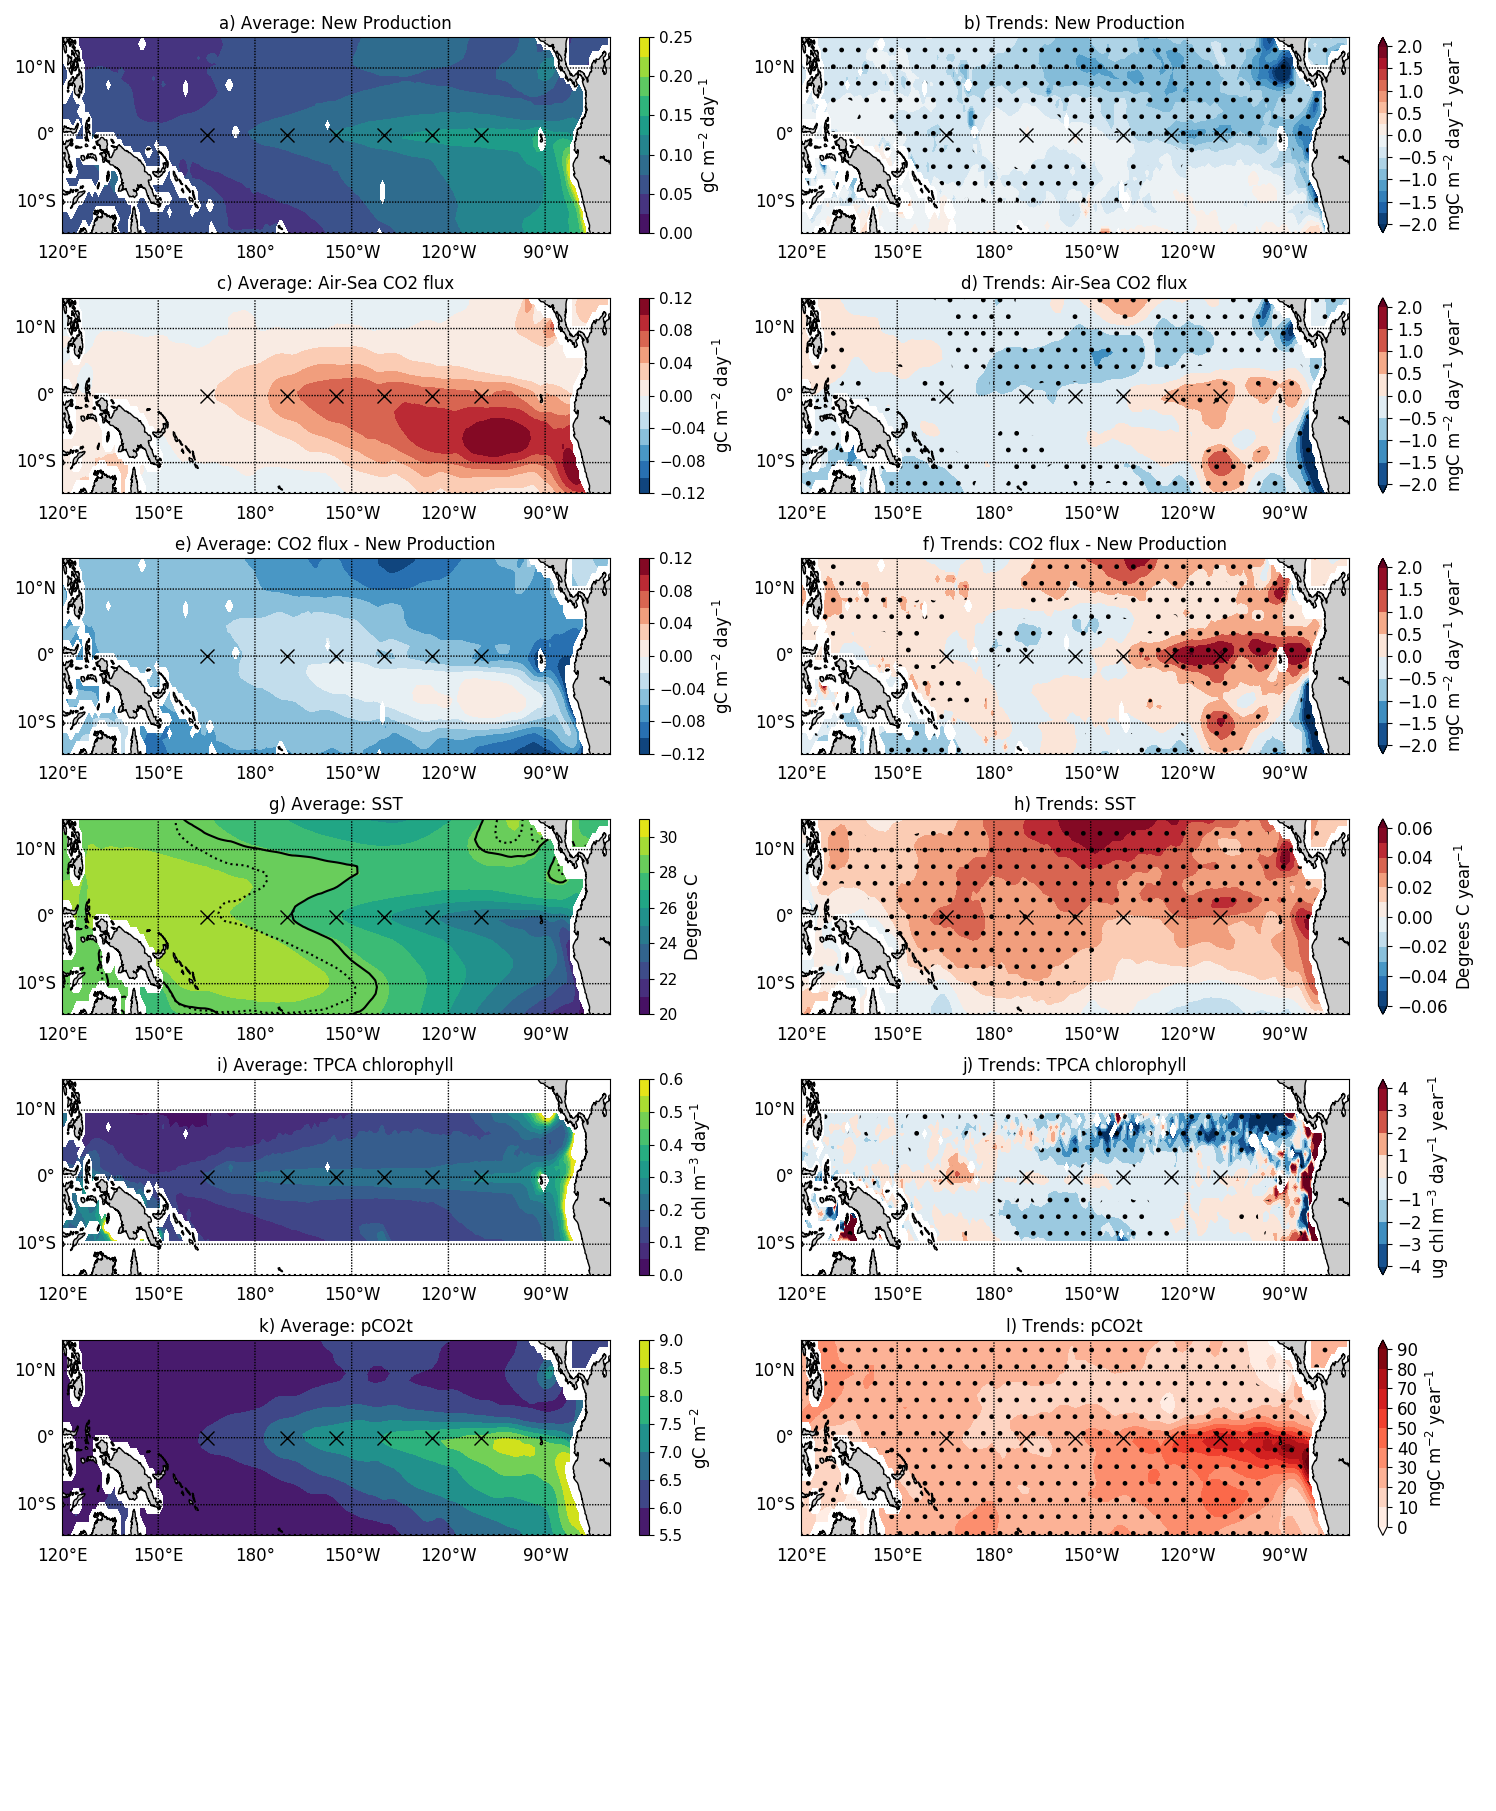
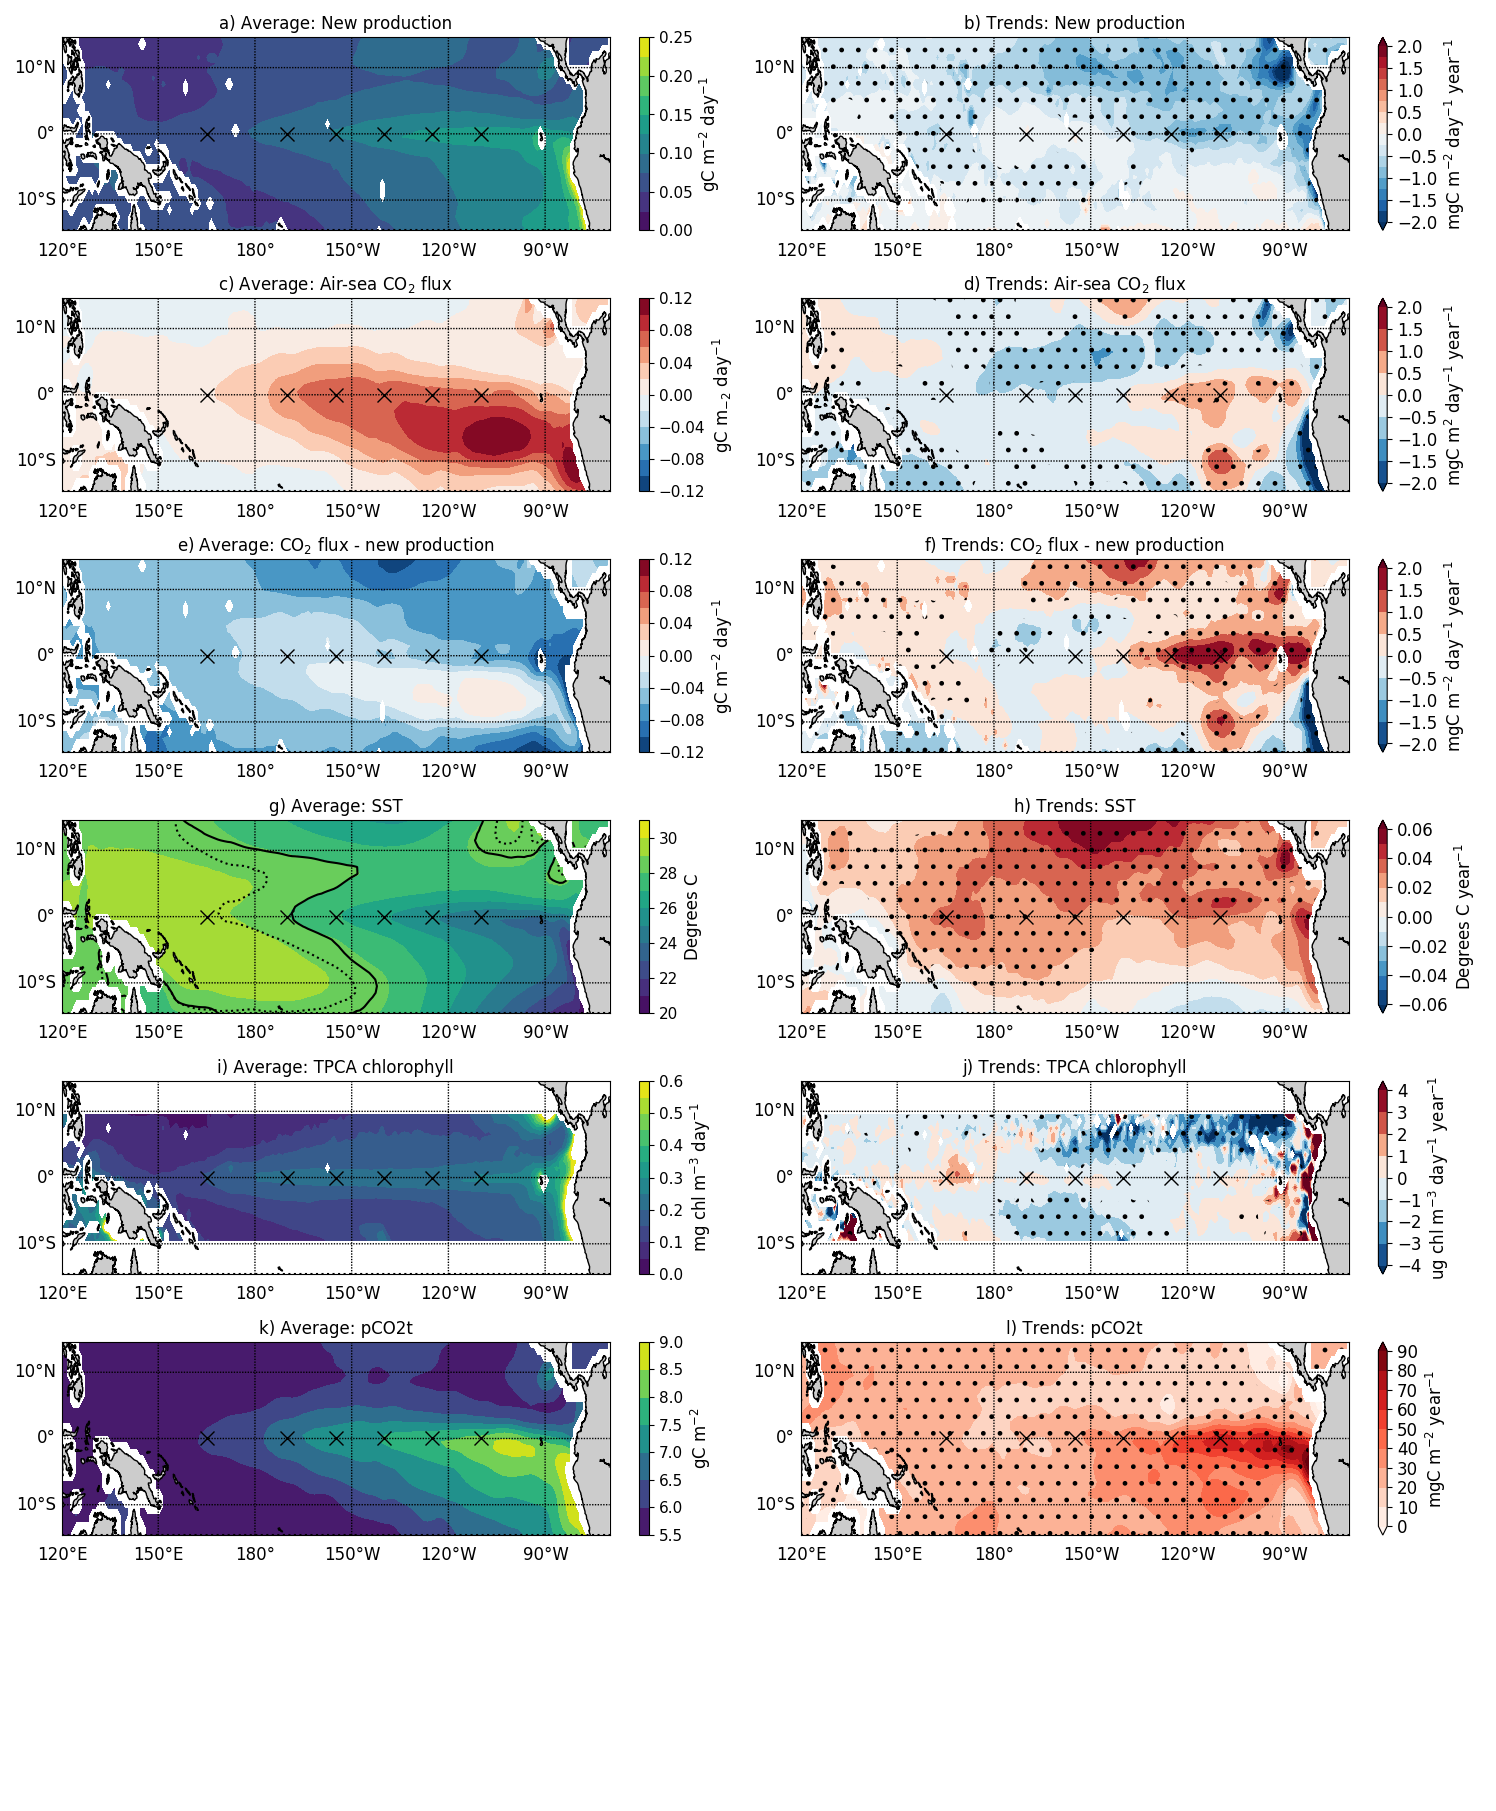
Last changes to figures hopefully. Small changes to F6 regionality. - Just need to save in other formats

diff --git a/9f_flux_rate_calculation.py b/9f_flux_rate_calculation.py
@@ -88,12 +88,15 @@ grid=grid.where(seamask.seamask==1)
 #fig=plt.figure(figsize=(8,10))
 
 limits=[['West',165,180],
-      ['Central',190,205],
-      ['East',230,245],
-      #['Basin',180,280]]
-      ['Basin',150,280]]
-      #['Basin',135,280]] #Le Borgne 2002 Warm Pool
-      
+      ['Central',205,220],
+      ['East',235,250],
+      #['Basin_check',180,280]]
+      ['Basin',150,280]] #As used in the paper
+
+      #['Borgne',135,280]] #Le Borgne 2002 Warm Pool
+      #['Wyrtiki',180,280]]
+#Borgne is lims=1
+#Wyrtiki is both lims=5 and 10
 lims=10
 
 mass_table=pd.DataFrame({
@@ -197,9 +200,9 @@ for i,ty in enumerate(limits):
     if i <=2:
         #ax.set_ylim([0,0.27*1e15])131
         
-        ax.set_ylim([-0.005*1e15,0.175*1e15])
+        ax.set_ylim([-0.005*1e15,0.2*1e15])
         ax.set_title(chr(97+i)+') '+ty[0]+' Pacific',pad=16)
-        ax.set_ylabel('New Production / CO$_{2}$ flux (PgC yr$^{-1}$)')
+        ax.set_ylabel('New production / CO$_{2}$ flux (PgC yr$^{-1}$)')
         ax.yaxis.set_major_formatter(FixedOrderFormatter(15))
 
        #y_formatter = matplotlib.ticker.ScalarFormatter(useOffset=False)
@@ -225,8 +228,11 @@ for i,ty in enumerate(limits):
     #print('gridsize= '+str(gs.values/1e14))
     
     print('CO2: '+str(dat.CO2.mean()/1e15))
+    print('CO2 STD: '+str(dat.CO2.std()/1e15))
     print('henson: '+str(dat.henson.mean()/1e15))
     print('laws2011a: '+str(dat.laws2011a.mean()/1e15))
+    print('laws2011a STD: '+str(dat.laws2011a.std()/1e15))
+    
     print('laws2011b: '+str(dat.laws2011b.mean()/1e15))
     print('laws2000: '+str(dat.laws2000.mean()/1e15))
     print('Dunne: '+str(dat.dunne.mean()/1e15))
@@ -329,10 +335,10 @@ for i,ty in enumerate(limits):
         d=a-b
         return (c*100).round(1),d.round(3)
         
-    p0=perc(means.laws2011a.iloc[2],means.laws2011a.iloc[4]) #Nina
-    p1=(perc(means.laws2011a.iloc[0],means.laws2011a.iloc[4])) #Nino
-    p2=(perc(means.CO2.iloc[2],means.CO2.iloc[4])) #Nina
-    p3=(perc(means.CO2.iloc[0],means.CO2.iloc[4])) #Nina
+    p0=(perc(means.laws2011a.iloc[4],means.laws2011a.iloc[2])) #Nina
+    p1=(perc(means.laws2011a.iloc[4],means.laws2011a.iloc[0])) #Nino
+    p2=(perc(means.CO2.iloc[4],means.CO2.iloc[2])) #Nina
+    p3=(perc(means.CO2.iloc[4],means.CO2.iloc[0])) #Nina
     
     print('Nina change% NP: '+str(p0))
     print('Nino change% NP: '+str(p1))
@@ -342,22 +348,22 @@ for i,ty in enumerate(limits):
     mass_table=mass_table.append(pd.DataFrame({
     'Region':ty[0],
     'Area':str((gs.values/1e12).round(3))+' (10^12m)',
-    'NP Mean':str(nd.laws2011a.round(3).values[0])+' PgC/yr',
-    'NP Neutral':str(nc.laws2011a.round(3).values[0])+' PgC/yr',
-    'NP El Nino':str(na.laws2011a.round(3).values[0])+' PgC/yr',
-    'NP La Nina':str(nb.laws2011a.round(3).values[0])+' PgC/yr',
-    'NP El Nino Diff':str(p0[0])+'% ,'+str(p0[1])+'PgC/yr',
-    'NP La Nina Diff':str(p1[0])+'% ,'+str(p1[1])+'PgC/yr',
-    'NP Trends':str((annual_rate_of_changeNP/1e12).round(3))+' ' +u"\u00B1 "+str(((trenNP[4]*365)/1e12).round(3)) +' TgC/yr-2',
-    'NP Pval':trenNP[3].round(7),
-    'CO2 Mean':str(nd.CO2.round(3).values[0])+' PgC/yr',
-    'CO2 Neutral':str(nc.CO2.round(3).values[0])+' PgC/yr',
-    'CO2 El Nino':str(na.CO2.round(3).values[0])+' PgC/yr',
-    'CO2 La Nina':str(nb.CO2.round(3).values[0])+' PgC/yr',
-    'CO2 El Nino Diff':str(p2[0])+'% ,'+str(p2[1])+'PgC/yr',
-    'CO2 La Nina Diff':str(p3[0])+'% ,'+str(p3[1])+'PgC/yr',
-    'CO2 Trends':str((annual_rate_of_changeCO/1e12).round(3))+' ' +u"\u00B1 "+str(((trenNP[4]*365)/1e12).round(3)) +' TgC/yr-2',
-    'CO2 Pval':trenCO[3].round(7)},index=[i]))
+    'NP Mean':str(nd.laws2011a.round(3).values[0])+' PgC yr-1',
+    'NP Neutral':str(nc.laws2011a.round(3).values[0])+' PgC yr-1',
+    'NP El Nino':str(na.laws2011a.round(3).values[0])+' PgC yr-1',
+    'NP La Nina':str(nb.laws2011a.round(3).values[0])+' PgC yr-1',
+    'NP El Nino Diff':str(p0[0])+'% ,'+str(p0[1])+'PgC yr-1',
+    'NP La Nina Diff':str(p1[0])+'% ,'+str(p1[1])+'PgC yr-1',
+    'NP Trends':str((annual_rate_of_changeNP/1e12).round(3))+' ' +u"\u00B1 "+str(((trenNP[4]*365)/1e12).round(3)) +' TgC yr-2',
+    'NP Pval':trenNP[3].round(10),
+    'CO2 Mean':str(nd.CO2.round(3).values[0])+' Pg yr-1',
+    'CO2 Neutral':str(nc.CO2.round(3).values[0])+' PgC yr-1',
+    'CO2 El Nino':str(na.CO2.round(3).values[0])+' PgC yr-1',
+    'CO2 La Nina':str(nb.CO2.round(3).values[0])+' PgC yr-1',
+    'CO2 El Nino Diff':str(p2[0])+'% ,'+str(p2[1])+'PgC yr-1',
+    'CO2 La Nina Diff':str(p3[0])+'% ,'+str(p3[1])+'PgC yr-1',
+    'CO2 Trends':str((annual_rate_of_changeCO/1e12).round(3))+' ' +u"\u00B1 "+str(((trenNP[4]*365)/1e12).round(3)) +' TgC yr-2',
+    'CO2 Pval':trenCO[3].round(10)},index=[i]))
         
     
     
@@ -365,7 +371,7 @@ for i,ty in enumerate(limits):
     
 means.to_csv('processed/results/enso_basin_means.csv',index=False)
 mass_table=mass_table.T
-mass_table.to_csv('processed/results/carbon_mass.csv')
+mass_table.to_csv('processed/results/carbon_mass.csv',header=False)
 plt.tight_layout()
 plt.savefig('figs/Figure6_basinavg_pG.png',dpi=200)
 plt.show()

diff --git a/9d_spatial_maps_trends.py b/9d_spatial_maps_trends.py
@@ -243,7 +243,7 @@ sb2=2
 plot_basemap_row(fig,axn=1,
                  hovmol=avg_npp.sel(lat=slice(-15,15)),
                  units='gC m$^{-2}$ day$^{-1}$',
-                 title='New Production',
+                 title='New production',
                  units_tr='mgC m$^{-2}$ day$^{-1}$ year$^{-1}$',
                  levs=np.arange(0,0.26,0.025),
                  levs_trend=np.arange(-2,2.1,0.25),
@@ -252,9 +252,9 @@ plot_basemap_row(fig,axn=1,
 
 plot_basemap_row(fig,axn=3,
                  hovmol=land,
-                 units='gC m$^{-2}$ day$^{-1}$',
-                 title='Air-Sea CO2 flux',
-                 units_tr='mgC m$^{-2}$ day$^{-1}$ year$^{-1}$',
+                 units='gC m$_{-2}$ day$^{-1}$',
+                 title='Air-sea CO$_{2}$ flux',
+                 units_tr='mgC m$^{2}$ day$^{-1}$ year$^{-1}$',
                  levs=np.arange(-0.12,0.13,0.02),
                  levs_trend=np.arange(-2,2.1,0.5),
                  trend_conversion=1000,
@@ -264,7 +264,7 @@ plot_basemap_row(fig,axn=3,
 plot_basemap_row(fig,axn=5,
                  hovmol=diff1,
                  units='gC m$^{-2}$ day$^{-1}$',
-                 title='CO2 flux - New Production',
+                 title='CO$_{2}$ flux - new production',
                  units_tr='mgC m$^{-2}$ day$^{-1}$ year$^{-1}$',                 
                  levs=np.arange(-0.12,0.13,0.02),
                  
